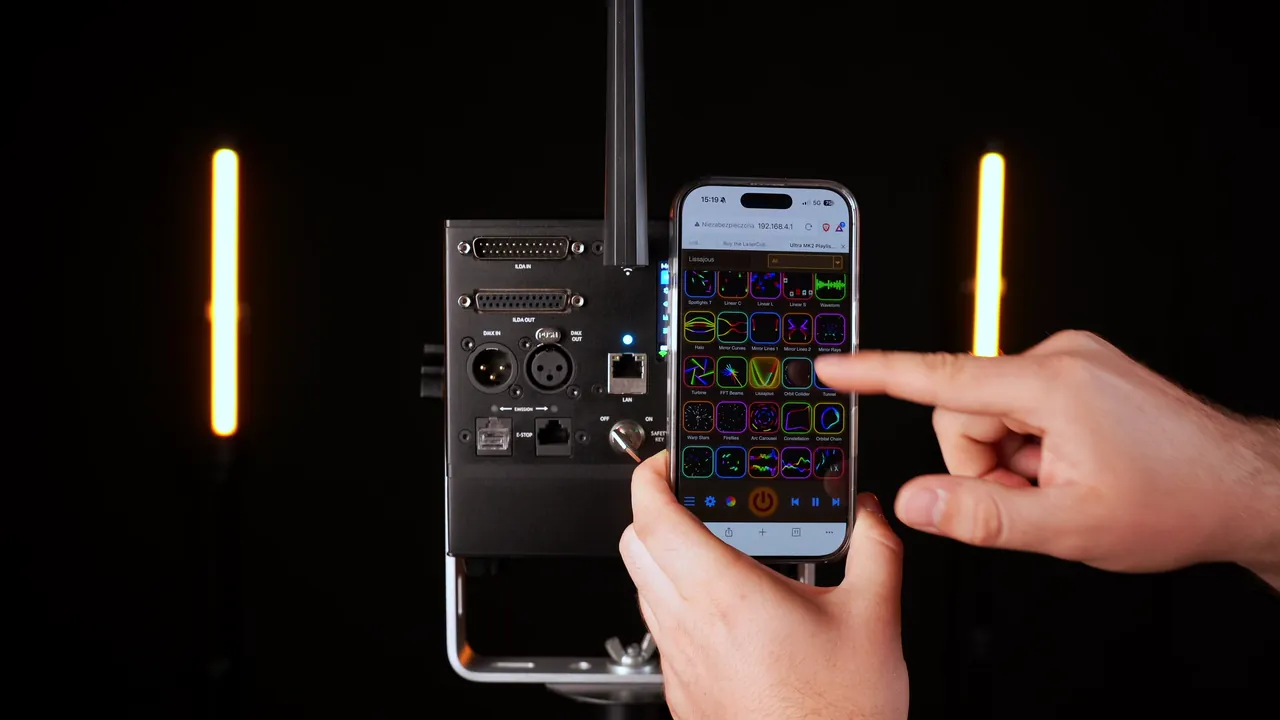
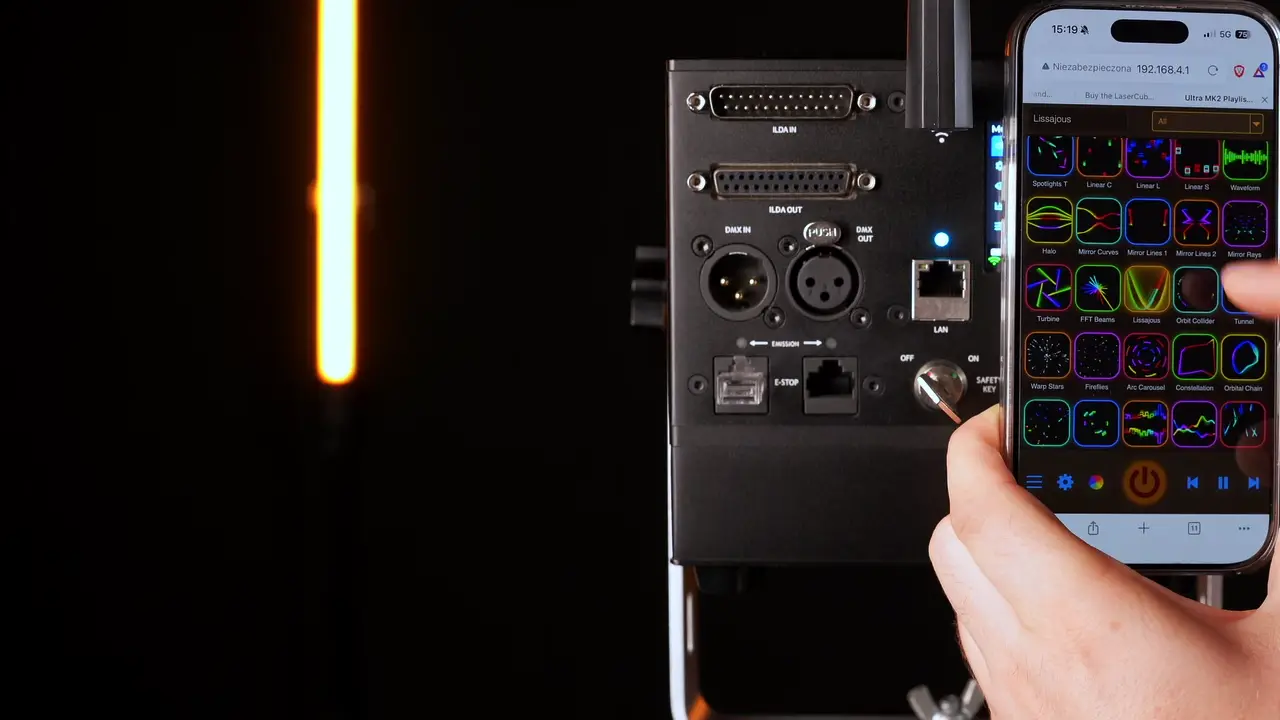
Academy audit: Academy status's README and poster fixes, small manual pictures at their own size

diff --git a/academy/connect/index.html b/academy/connect/index.html
@@ -476,7 +476,7 @@
   <p class="video-meta"><span>Beginners guide, part 3: moving through the cube’s menus with the knob, from Control Mode to Connection (0:54 to 3:04)</span><a href="https://www.youtube.com/watch?v=Yr7jZidnk9I&amp;t=54s" target="_blank" rel="noopener">Watch on YouTube, from 0:54</a></p>
   <p class="small video-note">Filmed on firmware 1.20, so two things in this lesson are missing from its menus: Preview in the main menu, and Language in Settings. Both came with firmware 2.0.</p>
 
-  <figure>
+  <figure class="native">
     <a href="../../docs/guides/ultra-mk2-pro-manual/Pictures/web/10000001000002BC0000017337C5089F-700.webp" target="_blank" rel="noopener"><img src="../../docs/guides/ultra-mk2-pro-manual/Pictures/web/10000001000002BC0000017337C5089F-700.webp" alt="The cube’s main menu with the status bar, from the manual, with labels: Battery Status on the battery icon; Safety Interlock, status: Disabled on the I-LOCK warning; Control Mode: LaserOS; Connection Mode: LAN Client, connected, on the tick next to LAN-C; IP Address on 169.254.105.174; and APIPA assigned IP Address on the A-IP tag." width="700" height="371" loading="lazy"></a>
     <figcaption>The status bar, labelled in the manual. Select the picture to open it full size in a new tab.</figcaption>
   </figure>

diff --git a/academy/start-here/index.html b/academy/start-here/index.html
@@ -715,7 +715,7 @@
     <li>Set the beam block first, so no beam can scan into an audience area: lesson 8 shows how.</li>
     <li>With the interlock closed and the key on (lesson 6: jumper in and key on, or with an E‑Stop the E‑Stop start done), click the Laser button: it reads <strong>LASER ON</strong>. Click it again, or press <strong>Esc</strong>, to stop. In the phone app, use the power button in the middle of the bottom bar: red when the projection is off, blue when it’s on. If the cube isn’t armed, LaserOS shows the message “Interlock is not enabled on cube”.</li>
   </ol>
-  <figure>
+  <figure class="native">
     <img src="../../docs/guides/ultra-mk2-pro-manual/Pictures/web/100000000000017F000000EE3A344951-383.webp" alt="Two views of the Laser button in LaserOS, from the manual: on the left it reads LASER OFF with a red power symbol, on the right LASER ON with a blue one. Below each is the preview of a cube animation." width="383" height="238" loading="lazy">
     <figcaption>The Laser button on a computer, from LASER OFF to LASER ON, from the manual.</figcaption>
   </figure>

diff --git a/academy/laseros-basics/index.html b/academy/laseros-basics/index.html
@@ -831,7 +831,7 @@
     <li>In LaserOS control mode, the cube’s own USB MIDI doesn’t work. Plug the controller into the computer that runs LaserOS instead.</li>
     <li>Open <strong>Settings → Midi</strong>. Under Input and Output, set <strong>Port</strong> to your controller. For an APC40 MK2 or APC mini MK2, also pick it under <strong>APC Model</strong>.</li>
   </ul>
-  <figure>
+  <figure class="native">
     <img src="../../docs/guides/ultra-mk2-pro-manual/Pictures/web/laseros-midi-settings-666.webp" alt="LaserOS Settings on a computer, Midi page, from the manual: an APC40 mkII set as the input port and the output port, and APC 40 MK2 picked as the APC model." width="666" height="338" loading="lazy">
     <figcaption>Settings → Midi with an APC40 MK2 as input, output and APC model.</figcaption>
   </figure>

diff --git a/academy/music-show/index.html b/academy/music-show/index.html
@@ -290,7 +290,7 @@
     <li>Click <strong>+ Effect</strong> on a layer and pick an effect from the list. A layer can have several effects.</li>
     <li>The effects on a layer can be moved up or down and switched off.</li>
   </ul>
-  <figure>
+  <figure class="native">
     <a href="../../docs/guides/ultra-mk2-pro-manual/Pictures/web/laseros-beam-creator-effects-640.webp" target="_blank" rel="noopener"><img src="../../docs/guides/ultra-mk2-pro-manual/Pictures/web/laseros-beam-creator-effects-640.webp" alt="The + Effect list in Beam Creator, from the manual: Simple Paths, Position, Random Position, Fixed Rotation, Movement, Variable Rotation, Scale, Power Fader, Strobe and Color Sequence." width="640" height="570" loading="lazy"></a>
     <figcaption>The + Effect list, from the manual.</figcaption>
   </figure>

diff --git a/academy/README.md b/academy/README.md
@@ -93,7 +93,7 @@ they were passed on.
 ## Videos not public yet
 
 A video that is still private or scheduled on YouTube can go into a lesson now and be shown once it is public
-(`grep -rn pending` lists them):
+(`grep -rnw pending` lists them):
 
 - in a lesson, its `.video`, `.video-meta` and any `.video-note` sit in `<div class="pending-video" data-pending="<id>" hidden>`;
 - on the homepage, its `<li>` or `<article>` has `data-pending="<id>" hidden`;
@@ -103,13 +103,13 @@ A video that is still private or scheduled on YouTube can go into a lesson now a
 
 When YouTube's oEmbed answers 200 for it (`https://www.youtube.com/oembed?url=https://www.youtube.com/watch?v=<id>`):
 remove `hidden` and `data-pending` from those elements, un-comment its search rows, set the beginner's-guide part number
-from the YouTube title ("pt. N"), replace the thumbnail with YouTube's `maxresdefault.jpg` at 640x360, and push. The cut
+from "pt. N" in a "Beginners guide" YouTube title (without one, drop the part label), replace the thumbnail with YouTube's `maxresdefault.jpg` at 640x360, and push. The cut
 times (`data-from`/`data-to`) were set on the presenter's own copy of the video; if the public upload is a different
 length, check them again before showing it.
 
 Jarek's four scheduled control-mode videos (Visualizers, Playlist, Laser shows, IDN & Ether Dream; 9-12 Oct 2026) are
-to be shown by an hourly job on the server that updates the wiki (academy-reveal.timer) once the owner OKs it;
-otherwise by hand as above.
+shown by an hourly job on our server (academy-reveal.timer, running since 9 Oct 2026; it switches itself off once all
+four are up). Don't show them by hand while it runs; the steps above are for other videos.
 
 ## Content rules (owner decisions, 7 Oct 2026)
 
